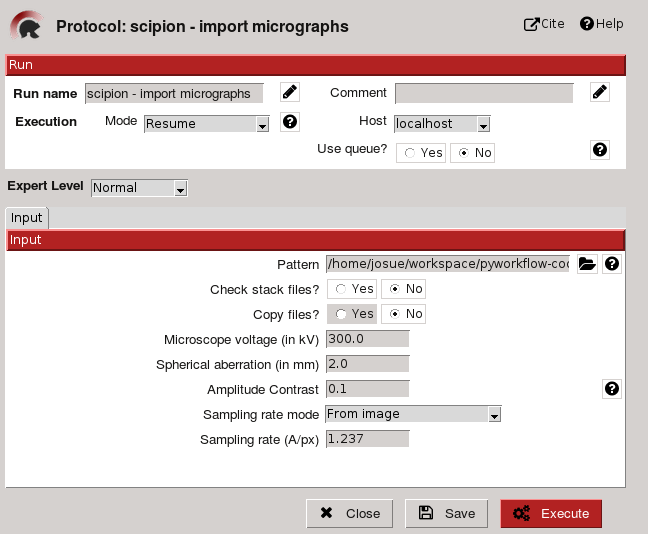
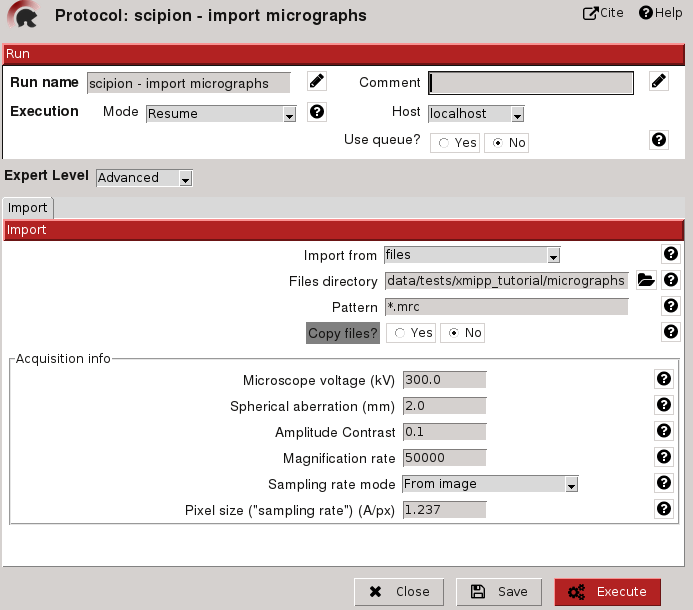
updated intro tutorial

diff --git a/tutorial_intro/intro.tex b/tutorial_intro/intro.tex
@@ -190,7 +190,16 @@ To start image processing in Scipion we need to run \scipion from the command li
 For this tutorial we register a new project by clicking the \keys{Create Project}
 button and specifying project name. Then we navigate to project window.  
 Left panel displays possible workflows, such as Single Particle Analysis (SPA) or Random Conical Tilt (RCT), 
-and its different reconstruction tasks listing protocols available. 
+and its different reconstruction tasks listing protocols available.
+
+\begin{figure}
+\centering
+\includegraphics[width=0.7\textwidth]
+{{images/00.Project}.png}
+\caption{Import Micrographs protocol dialog.}
+\label{fig:ImportMics}
+\end{figure}
+
 
 \subsection{Preprocessing}
 
